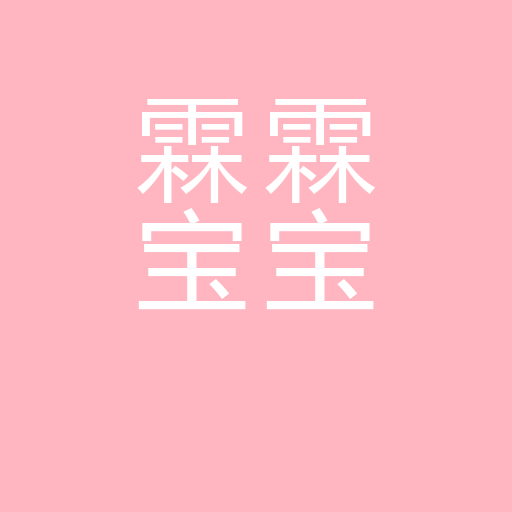
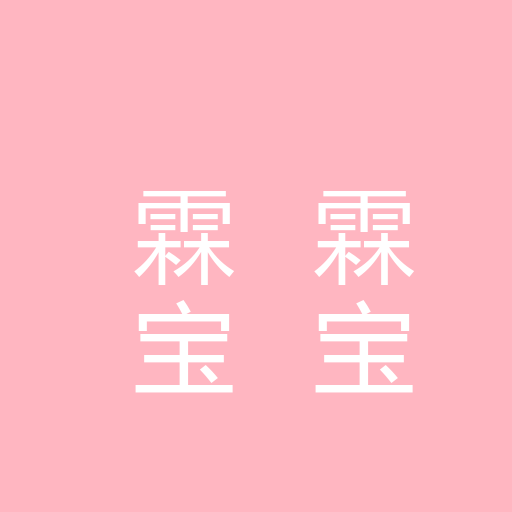
优化图标居中显示，修改标题为超声词汇加油站

Changed region(s): [[0.25, 0.1875, 0.8125, 0.7812]]

diff --git a/index.html b/index.html
@@ -8,7 +8,7 @@
     <meta name="apple-mobile-web-app-capable" content="yes">
     <meta name="apple-mobile-web-app-status-bar-style" content="black-translucent">
     <meta name="apple-mobile-web-app-title" content="超声词汇">
-    <title>小霖的超声词汇加油站</title>
+    <title>超声词汇加油站</title>
     <link rel="manifest" href="manifest.json">
     <link rel="apple-touch-icon" href="icon-192.png">
     <style>
@@ -67,28 +67,16 @@
         }
 
         header h1 {
-            font-size: 2.5rem;
-            background: linear-gradient(135deg, #ff9a9e 0%, #fecfef 50%, #a18cd1 100%);
-            -webkit-background-clip: text;
-            -webkit-text-fill-color: transparent;
-            background-clip: text;
-            margin-bottom: 10px;
-            font-weight: 800;
-            text-shadow: 2px 2px 4px rgba(255, 154, 158, 0.3);
-            animation: bounce 2s ease-in-out infinite;
+            font-size: 1.5rem;
+            color: #555;
+            margin-bottom: 5px;
+            font-weight: 600;
         }
 
-        header p.subtitle {
-            font-size: 1rem;
-            color: #a18cd1;
+        header p {
+            font-size: 0.9rem;
+            color: #888;
             margin-top: 0;
-            font-weight: 500;
-            letter-spacing: 2px;
-        }
-
-        @keyframes bounce {
-            0%, 100% { transform: translateY(0); }
-            50% { transform: translateY(-5px); }
         }
 
         /* 3D Flip Card */
@@ -355,8 +343,8 @@
     <div class="glass-container">
         <button class="reset-btn" onclick="重置进度()" title="重置进度">↻ Reset</button>
         <header>
-            <h1>霖霖宝宝</h1>
-            <p class="subtitle">超声词汇学习</p>
+            <h1>超声词汇加油站</h1>
+            <p>Today is a good day to learn</p>
         </header>
 
         <div class="card-scene" onclick="切换翻转()">

diff --git a/generate_icons.py b/generate_icons.py
@@ -1,0 +1,50 @@
+from PIL import Image, ImageDraw, ImageFont
+import os
+
+def create_modern_icon(size, output_path, text="霖霖宝宝"):
+    img = Image.new('RGBA', (size, size), (255, 182, 193, 255))
+    draw = ImageDraw.Draw(img)
+    
+    font_path = "C:/Windows/Fonts/msyh.ttc"
+    font_size = int(size * 0.2)
+    
+    try:
+        font = ImageFont.truetype(font_path, font_size)
+    except:
+        font = ImageFont.load_default()
+    
+    chars = list(text)
+    n_chars = len(chars)
+    n_cols = 2
+    n_rows = (n_chars + n_cols - 1) // n_cols
+    
+    cell_width = size * 0.35
+    cell_height = size * 0.22
+    start_x = (size - cell_width * n_cols) / 2 + cell_width * 0.1
+    start_y = (size - cell_height * n_rows) / 2 + cell_height * 0.1
+    
+    for i, char in enumerate(chars):
+        row = i // n_cols
+        col = i % n_cols
+        x = start_x + col * cell_width
+        y = start_y + row * cell_height
+        
+        bbox = draw.textbbox((0, 0), char, font=font)
+        char_width = bbox[2] - bbox[0]
+        char_height = bbox[3] - bbox[1]
+        
+        x = x + (cell_width - char_width) / 2
+        y = y + (cell_height - char_height) / 2
+        
+        draw.text((x, y), char, fill=(255, 255, 255, 255), font=font)
+    
+    img.save(output_path)
+    print(f"✓ 创建图标: {output_path} ({size}x{size})")
+
+sizes = [192, 512]
+
+for size in sizes:
+    output_path = f"icon-{size}.png"
+    create_modern_icon(size, output_path)
+
+print("\n✅ 现代化图标生成完成！")

diff --git a/find_fonts.py b/find_fonts.py
@@ -1,0 +1,23 @@
+import os
+from PIL import ImageFont
+
+font_paths = [
+    "C:/Windows/Fonts/msyh.ttc",      # 微软雅黑
+    "C:/Windows/Fonts/simhei.ttf",    # 黑体
+    "C:/Windows/Fonts/simkai.ttf",    # 楷体
+    "C:/Windows/Fonts/simsun.ttc",    # 宋体
+    "C:/Windows/Fonts/pingfang.ttf",  # 苹方
+]
+
+available = []
+for fp in font_paths:
+    if os.path.exists(fp):
+        available.append(fp)
+        print(f"✓ 找到字体: {fp}")
+
+if not available:
+    print("未找到中文字体，尝试查找所有字体...")
+    for root, dirs, files in os.walk("C:/Windows/Fonts"):
+        for f in files:
+            if f.endswith(('.ttf', '.ttc')) and any(kw in f.lower() for kw in ['hei', 'kai', 'ming', 'fang', 'song']):
+                print(f"✓ 找到: {os.path.join(root, f)}")
